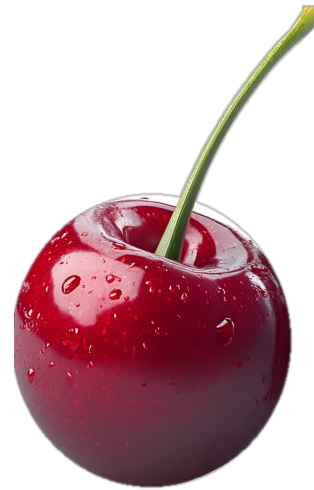
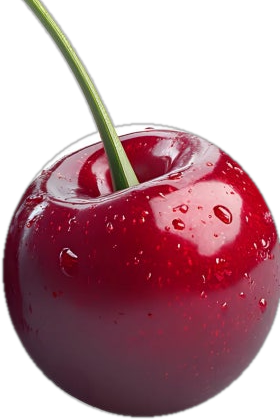
어디야 시험: 체리 좌우 반전, 꼭지·아이콘 왼쪽, 꼭지 짧게, 체리 키워 위로
Claude-Session: https://claude.ai/code/session_01Q9nWZmu9j7KjG6oqwEvqXM

diff --git a/eodiya/index.html b/eodiya/index.html
@@ -396,13 +396,13 @@
     .pbtns .psend { box-shadow: 0 4px 0 #7a3417; }
     /* 시험: 둥근 체리 한 알 통째로, 글씨는 체리 안에, 아이콘은 꼭지 끝 */
     .mode[data-mode][data-mode] { --mc: #B3132B; --mc-d: #7A0C1C; --mc-s: #FBE9EC; }
-    .mode[data-mode], .mode[data-mode][aria-pressed="true"] { position: relative; min-height: 178px; padding: 0 4px 26px; align-content: end; justify-items: center; text-align: center; gap: 2px; background: url(../img/mode-cherry-round.png?v=1) center bottom 2px / 100% auto no-repeat, #FFF8F0; border-color: #F1D9D2; }
+    .mode[data-mode], .mode[data-mode][aria-pressed="true"] { position: relative; min-height: 168px; padding: 0 4px 36px; align-content: end; justify-items: center; text-align: center; gap: 2px; background: url(../img/mode-cherry-round.png?v=2) center bottom 12px / 95% auto no-repeat, #FFF8F0; border-color: #F1D9D2; }
     .mode[data-mode][aria-pressed="true"] { background-color: #FDE7EA; border-color: #B3132B; }
-    .mode[data-mode] > i { position: absolute; top: 2px; right: 0; width: 40px; height: 40px; font-size: 22px; box-shadow: 0 2px 6px rgba(0,0,0,.3); }
+    .mode[data-mode] > i { position: absolute; top: 2px; left: 0; width: 40px; height: 40px; font-size: 22px; box-shadow: 0 2px 6px rgba(0,0,0,.3); }
     .mode[data-mode] > i img { width: 34px !important; height: 34px !important; }
     .mode[data-mode] b { font-size: 19px; line-height: 1.15; }
     .mode[data-mode] span { font-size: 14px; line-height: 1.3; max-width: 86px; word-break: keep-all; }
-    .mode[aria-pressed="true"]::after { right: auto; left: 7px; top: 7px; }
+    .mode[aria-pressed="true"]::after { left: auto; right: 7px; top: 7px; }
   </style>
   <link rel="stylesheet" href="https://fonts.googleapis.com/css2?family=Gowun+Batang:wght@700&text=%20%21%28%29%2C.03%3A%3F%E2%80%94%E2%80%98%E2%80%99%E2%80%9C%E2%80%9D%E2%80%A6%E3%80%8C%E3%80%8D%EA%B0%80%EA%B0%81%EA%B0%84%EA%B0%88%EA%B0%90%EA%B0%91%EA%B0%93%EA%B0%94%EA%B0%95%EA%B0%99%EA%B0%9A%EA%B0%9C%EA%B1%B0%EA%B1%B1%EA%B1%B7%EA%B1%B8%EA%B2%81%EA%B2%83%EA%B2%8C%EA%B2%A0%EA%B2%A8%EA%B2%B0%EA%B2%BD%EA%B3%81%EA%B3%84%EA%B3%A0%EA%B3%A1%EA%B3%A7%EA%B3%B1%EA%B3%BC%EA%B4%B4%EA%B5%90%EA%B5%AC%EA%B5%AD%EA%B5%B3%EA%B5%B4%EA%B5%BD%EA%B7%80%EA%B7%91%EA%B7%9C%EA%B7%B8%EA%B8%88%EA%B8%8B%EA%B8%B0%EA%B8%B4%EA%B8%B8%EA%B9%80%EA%B9%8A%EA%B9%8C%EA%B9%A8%EA%BD%83%EB%81%84%EB%81%8C%EB%81%9D%EB%81%BC%EB%82%98%EB%82%9C%EB%82%A0%EB%82%A8%EB%82%B4%EB%83%A5%EB%84%88%EB%84%A3%EB%84%A4%EB%85%80%EB%85%84%EB%85%95%EB%85%B8%EB%85%B9%EB%85%BC%EB%86%80%EB%86%93%EB%88%84%EB%88%88%EB%8A%94%EB%8A%98%EB%8B%88%EB%8B%98%EB%8B%A4%EB%8B%A8%EB%8B%AB%EB%8B%AC%EB%8B%AD%EB%8B%B4%EB%8B%B9%EB%8C%80%EB%8D%94%EB%8D%95%EB%8D%98%EB%8D%A4%EB%8D%AE%EB%8D%B0%EB%8F%84%EB%8F%8B%EB%8F%8C%EB%8F%95%EB%8F%99%EB%90%98%EB%90%9C%EB%91%90%EB%91%98%EB%92%B7%EB%93%9D%EB%93%A0%EB%93%A3%EB%93%A4%EB%93%AF%EB%94%94%EB%94%B0%EB%94%B4%EB%95%8C%EB%96%A0%EB%96%A8%EB%98%90%EB%9C%B0%EB%9C%BB%EB%9D%BC%EB%9D%BD%EB%9E%80%EB%9E%8C%EB%9E%91%EB%9E%98%EB%9E%B4%EB%9F%AC%EB%9F%B0%EB%9F%BC%EB%A0%87%EB%A0%88%EB%A0%A4%EB%A1%9C%EB%A1%9D%EB%A1%A0%EB%A3%A8%EB%A5%B4%EB%A5%B8%EB%A5%BC%EB%A6%84%EB%A6%85%EB%A6%87%EB%A6%AC%EB%A6%B0%EB%A6%B4%EB%A6%BD%EB%A7%88%EB%A7%8C%EB%A7%8E%EB%A7%90%EB%A7%9D%EB%A7%B9%EB%A8%B8%EB%A8%B9%EB%A8%BC%EB%A9%80%EB%A9%B0%EB%A9%B4%EB%AA%85%EB%AA%A8%EB%AA%A9%EB%AA%BB%EB%AC%B4%EB%AC%B5%EB%AC%BB%EB%AC%BC%EB%AF%B8%EB%AF%BF%EB%B0%94%EB%B0%95%EB%B0%96%EB%B0%98%EB%B0%9D%EB%B0%A4%EB%B0%B1%EB%B2%84%EB%B2%88%EB%B2%8C%EB%B2%97%EB%B3%84%EB%B3%91%EB%B3%95%EB%B3%B4%EB%B4%84%EB%B4%85%EB%B6%80%EB%B6%81%EB%B6%88%EB%B6%89%EB%B9%84%EB%B9%9A%EB%B9%9B%EB%BF%90%EC%81%98%EC%82%AC%EC%82%B0%EC%82%B4%EC%82%B6%EC%82%BC%EC%83%81%EC%83%88%EC%83%98%EC%83%9D%EC%84%9C%EC%84%A0%EC%84%A4%EC%84%B1%EC%84%B8%EC%85%88%EC%85%B0%EC%86%8C%EC%86%8D%EC%88%98%EC%88%99%EC%88%A8%EC%88%B2%EC%89%AC%EC%8A%A4%EC%8A%A8%EC%8A%AC%EC%8A%B4%EC%8A%B5%EC%8B%9C%EC%8B%9D%EC%8B%A0%EC%8B%AC%EC%8B%AD%EC%8B%B6%EC%8B%B8%EC%8D%A8%EC%93%B8%EC%94%A9%EC%95%84%EC%95%88%EC%95%89%EC%95%8A%EC%95%8C%EC%95%9E%EC%95%A0%EC%95%BC%EC%95%BD%EC%96%91%EC%96%B4%EC%96%B5%EC%96%B8%EC%96%BC%EC%97%86%EC%97%87%EC%97%88%EC%97%90%EC%97%AC%EC%97%B0%EC%97%BC%EC%97%BE%EC%98%80%EC%98%9B%EC%98%A4%EC%98%A5%EC%98%AE%EC%99%80%EC%99%B8%EC%9A%94%EC%9A%A9%EC%9A%B0%EC%9A%B4%EC%9A%B8%EC%9B%80%EC%9B%83%EC%9B%8C%EC%9B%90%EC%9B%94%EC%9C%84%EC%9C%A0%EC%9C%A4%EC%9C%BC%EC%9D%80%EC%9D%84%EC%9D%8C%EC%9D%98%EC%9D%B4%EC%9D%B5%EC%9D%B8%EC%9D%BC%EC%9D%BD%EC%9E%83%EC%9E%85%EC%9E%88%EC%9E%8A%EC%9E%90%EC%9E%91%EC%9E%94%EC%9E%98%EC%9E%A0%EC%9E%A1%EC%9E%A5%EC%A0%80%EC%A0%81%EC%A0%84%EC%A0%88%EC%A0%95%EC%A0%96%EC%A0%9C%EC%A0%B8%EC%A1%8C%EC%A1%B0%EC%A2%81%EC%A3%BC%EC%A3%BD%EC%A4%84%EC%A7%80%EC%A7%81%EC%A7%84%EC%A7%91%EC%A7%93%EC%A7%9D%EC%A9%8C%EC%A9%90%EC%B0%A8%EC%B0%AC%EC%B0%BE%EC%B1%85%EC%B2%98%EC%B2%9C%EC%B2%AB%EC%B2%AD%EC%B3%90%EC%B6%94%EC%B6%98%EC%B9%98%EC%B9%A8%EC%B9%B4%EC%BC%80%EC%BD%A4%ED%82%A4%ED%83%81%ED%83%84%ED%84%B0%ED%85%8C%ED%86%A0%ED%89%81%ED%8A%B8%ED%8B%B0%ED%8C%8C%ED%8C%A8%ED%8D%BC%ED%8E%B4%ED%8E%B8%ED%8E%BC%ED%8F%AC%ED%91%B8%ED%92%80%ED%92%8D%ED%94%84%ED%94%88%ED%94%94%ED%94%BC%ED%95%98%ED%95%99%ED%95%9C%ED%95%A0%ED%95%A8%ED%95%A9%ED%95%B4%ED%96%87%ED%96%88%ED%96%A5%ED%97%88%ED%97%A4%ED%98%80%ED%99%80%ED%99%94%ED%99%A9%ED%9C%A9%ED%9D%90%ED%9D%98%ED%9D%99%ED%9D%AC%ED%9E%88%ED%9E%8C%ED%9E%90%ED%9E%98&display=swap">
 <script src="/js/launch.js?v=2"></script>
